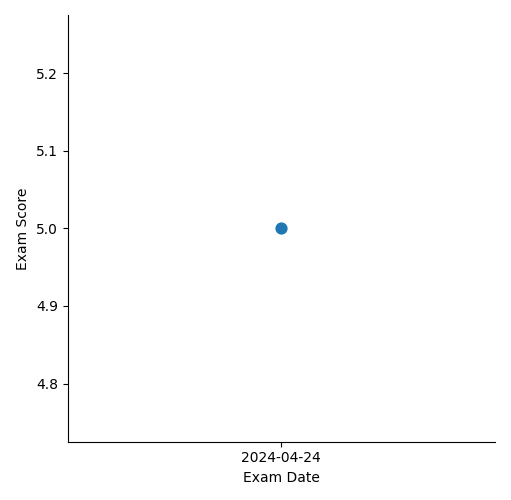
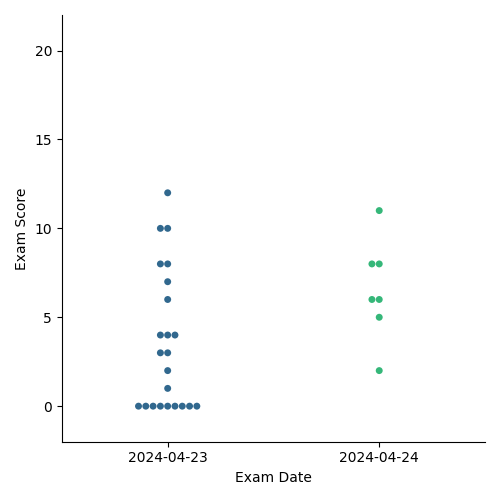
Changed graph type

diff --git a/DMV/controller/views.py b/DMV/controller/views.py
@@ -252,7 +252,8 @@ def score_history():
         #checking if practice_scores is empty or not
         if practice_scores:
             #creating plot from data
-            sns.catplot(data=practice_data, x='Practice Date', y='Practice Score', kind='point')
+            scatter = sns.catplot(data=practice_data, kind = "swarm", x='Practice Date', y='Practice Score', hue='Practice Date', palette='viridis')
+            scatter.set(ylim=(-2, 22))
         else:
             #creating plot from dummy data
             sns.catplot(data=practice_data, x='Practice Date', y='Practice Score', kind='point', color='b', alpha=0)
@@ -288,7 +289,8 @@ def score_history():
         #checking if exam_scores is empty or not
         if exam_scores:
             #creating plot from data
-            sns.catplot(data=exam_data, x='Exam Date', y='Exam Score', kind='point')
+            scatter = sns.catplot(data=exam_data, kind = "swarm", x='Exam Date', y='Exam Score', hue='Exam Date', palette='viridis')
+            scatter.set(ylim=(-2, 22))
         else:
             #creating plot from dummy data
             sns.catplot(data=exam_data, x='Exam Date', y='Exam Score', kind='point', color='b', alpha=0)
